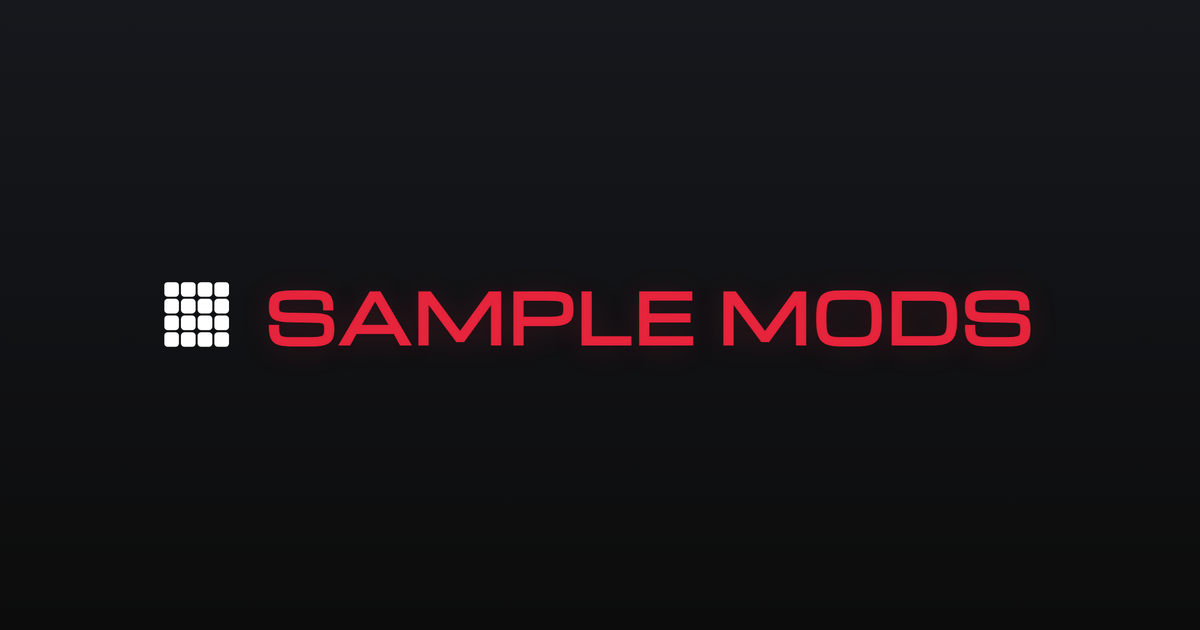
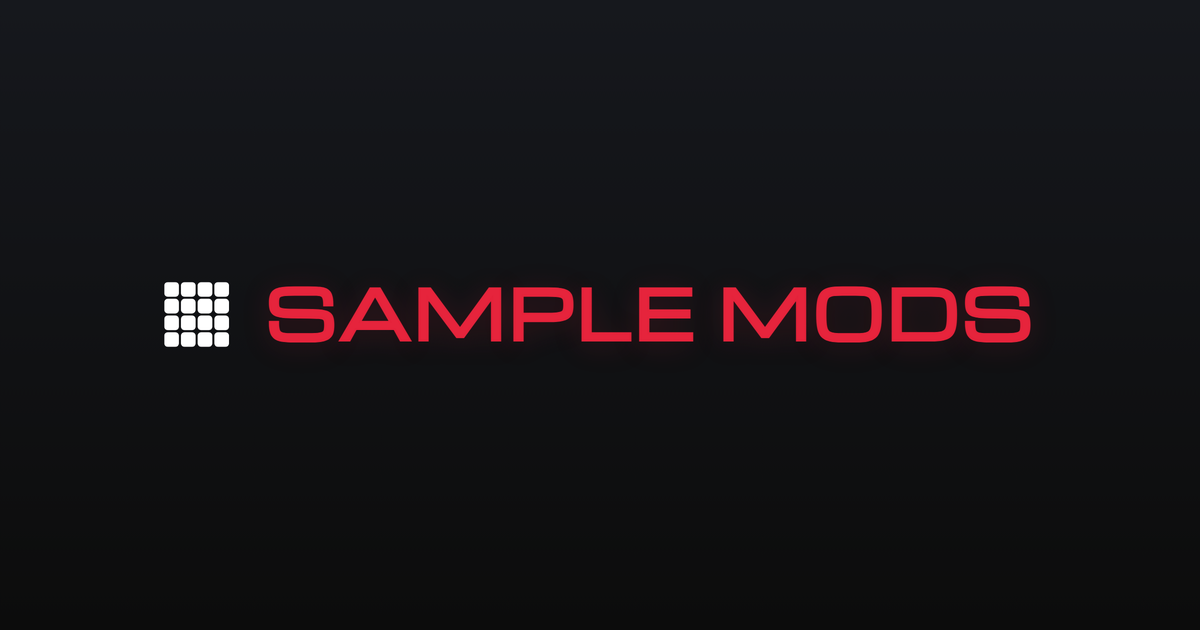
fix: vertically centre the SAMPLE MODS wordmark on the grid mark
Michroma caps sit low in their line box, so the text rendered below the
grid's centre in the header, footer and share banner. Lift the wordmark by
0.06em (0.09em for the small mobile header) and re-render the banner.

diff --git a/src/app.css b/src/app.css
@@ -136,6 +136,9 @@ a:hover {
 	paint-order: stroke fill;
 	text-shadow: 0 1px 8px rgb(230 36 60 / 0.3);
 	white-space: nowrap;
+	/* Caps sit low in the line box; lift them so they centre on the grid mark. */
+	position: relative;
+	top: -0.06em;
 }
 
 .site-nav {
@@ -624,6 +627,10 @@ a:hover {
 		font-size: 0.74rem;
 		letter-spacing: 0.04em;
 		-webkit-text-stroke: 0.75px currentColor;
+	}
+
+	.brand-lockup .wordmark {
+		top: -0.09em;
 	}
 
 	.footer-wordmark {
